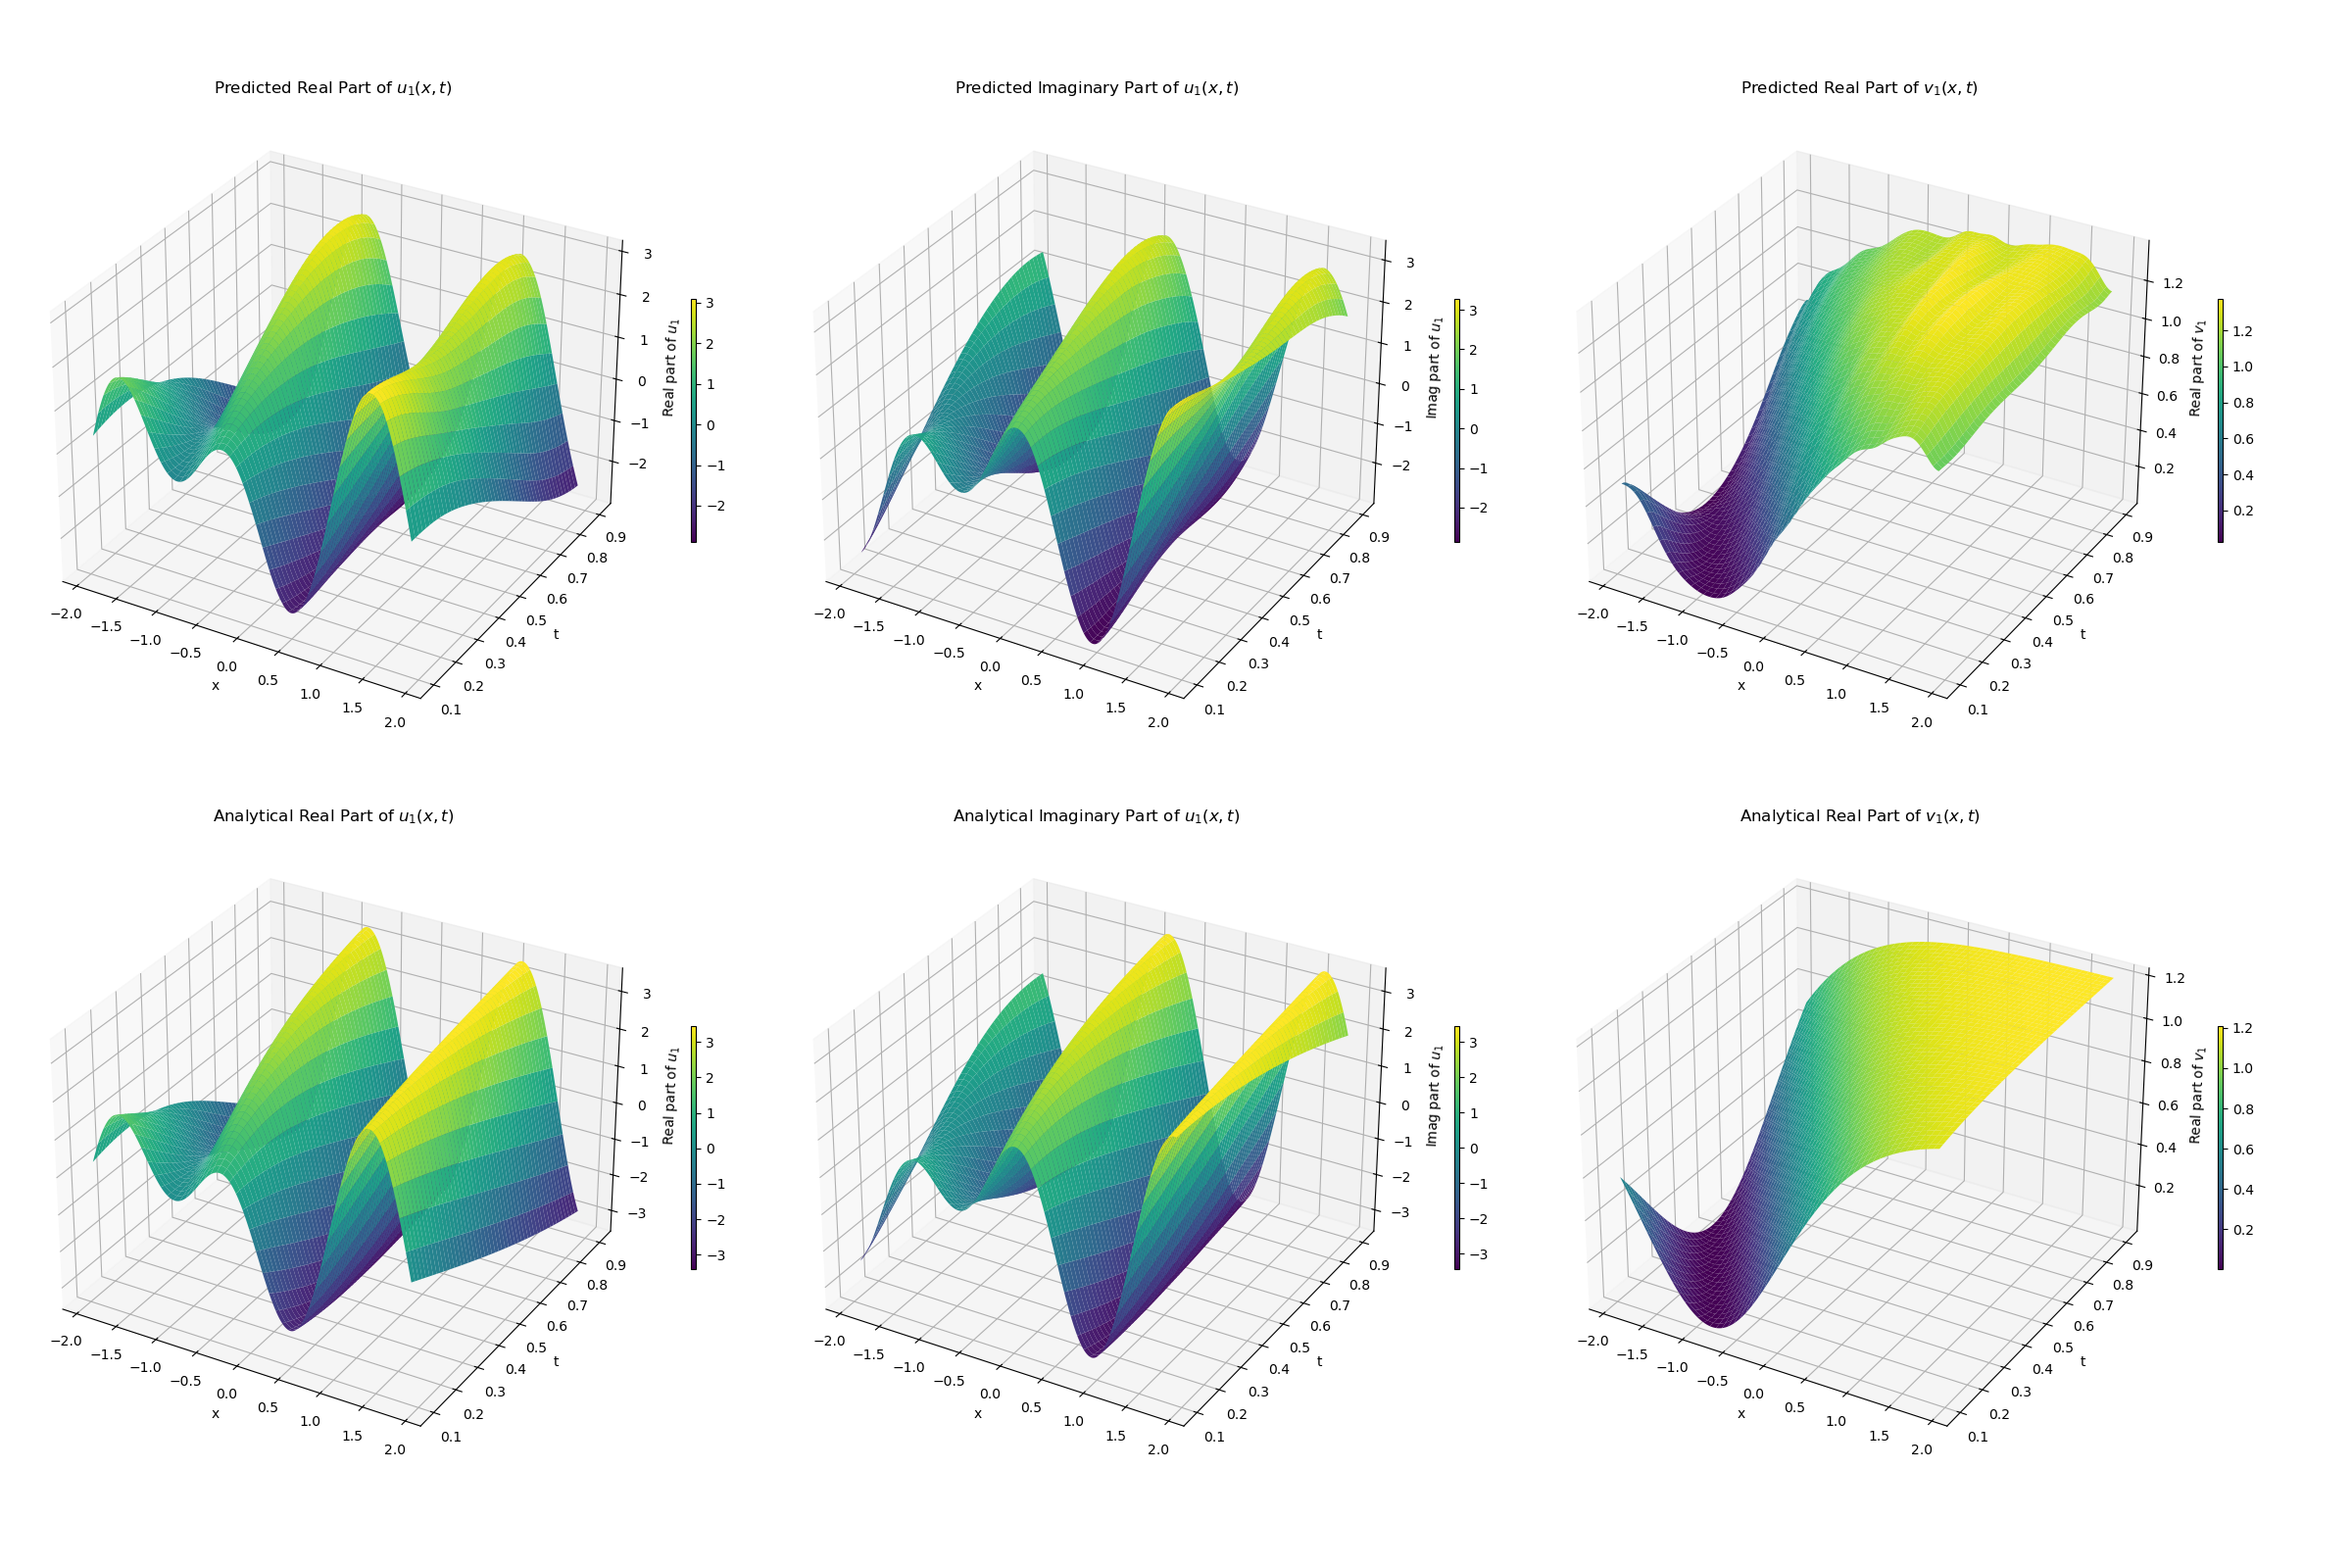
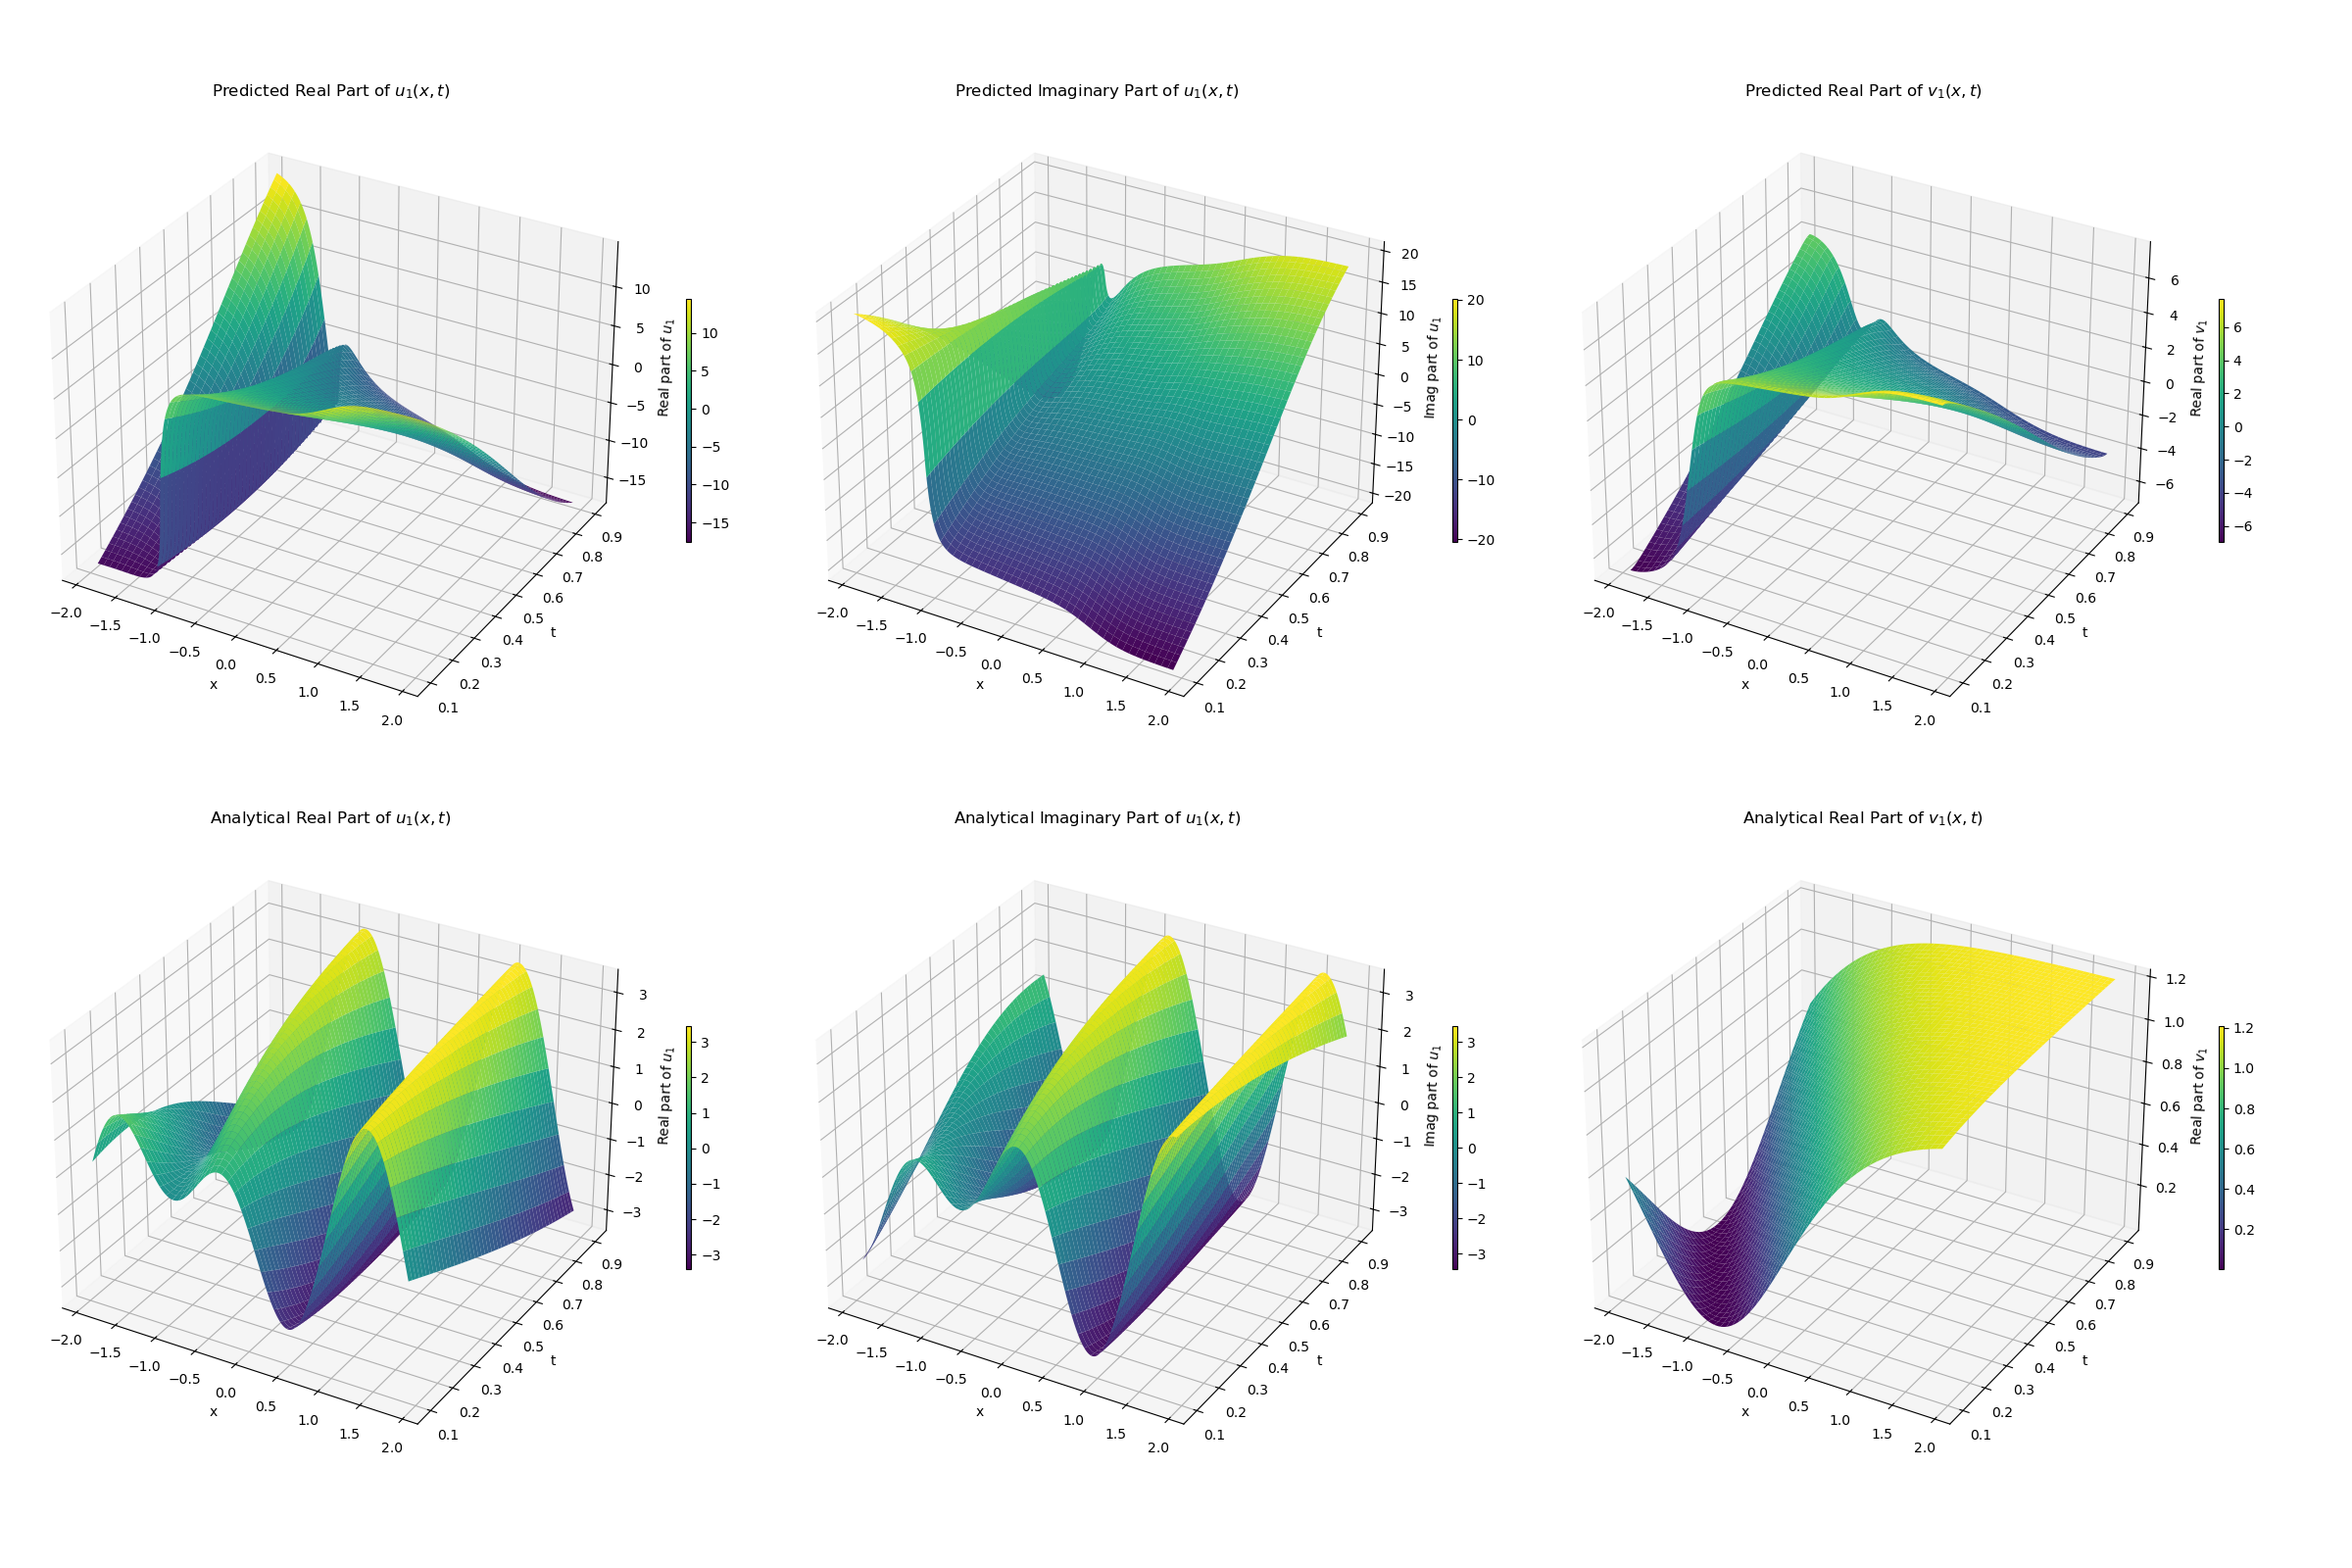
coupled higgs equation initial condition new

diff --git a/test/coupled_higgs_init.py b/test/coupled_higgs_init.py
@@ -1,0 +1,294 @@
+import torch
+import torch.nn as nn
+from torch.optim import AdamW, LBFGS
+from torch.autograd import Variable
+from tqdm import tqdm
+import numpy as np
+import os
+import pandas as pd
+from itertools import cycle
+import matplotlib.pyplot as plt
+from mpl_toolkits.mplot3d import Axes3D
+from scipy.ndimage import gaussian_filter
+import os
+import warnings
+
+warnings.filterwarnings('ignore', category=UserWarning)
+warnings.filterwarnings('ignore', category=FutureWarning)
+
+
+def fourier_features(x, B):
+    x_transformed = torch.matmul(x, B)
+    return torch.cat([torch.sin(x_transformed), torch.cos(x_transformed) ], dim=-1)
+
+def init_fixed_frequency_matrix(size, scale=1.0):
+    num_elements = size[0] * size[1]
+    lin_space = torch.linspace(-scale, scale, steps=num_elements)
+    B = lin_space.view(size).float()
+    return B
+
+def fourier_features(x, B):
+    x_transformed = torch.matmul(x, B)
+    return torch.cat([torch.sin(x_transformed), torch.cos(x_transformed)], dim=-1)
+
+def init_fixed_frequency_matrix(size, scale=1.0):
+    num_elements = size[0] * size[1]
+    lin_space = torch.linspace(-scale, scale, steps=num_elements)
+    B = lin_space.view(size).float()
+    return B
+
+class FourierFeatureNN(nn.Module):
+    def __init__(self, input_dim=1, shared_units=128, output_dim=3, layers_per_path=2, scale=1.0, 
+                 activation=nn.Tanh, path_neurons=None, ffn_neurons=None, device='cpu'):
+        super(FourierFeatureNN, self).__init__()
+        self.Bx = init_fixed_frequency_matrix((input_dim, shared_units // 2), scale=scale).to(device)
+        self.Bt = init_fixed_frequency_matrix((input_dim, shared_units // 2), scale=scale).to(device)
+        
+        if path_neurons is None:
+            path_neurons = [shared_units] * layers_per_path
+        if ffn_neurons is None:
+            ffn_neurons = [shared_units // 2]  # Example default
+
+        # Define separate paths for x and t after Fourier transformation
+        self.path_x = self._build_path(path_neurons, activation)
+        self.path_t = self._build_path(path_neurons, activation)
+
+        # Define the subsequent FFN after pointwise multiplication
+        ffn_layers = [nn.Linear(path_neurons[-1], ffn_neurons[0])] + [
+            layer for n in ffn_neurons[1:] for layer in (activation(), nn.Linear(ffn_neurons[ffn_neurons.index(n)-1], n))
+        ]
+        self.ffn = nn.Sequential(*ffn_layers)
+
+        # Final layer to produce output
+        self.final_layer = nn.Linear(ffn_neurons[-1], output_dim)
+
+    def _build_path(self, neurons, activation):
+        layers = []
+        for i in range(len(neurons) - 1):
+            layers.append(nn.Linear(neurons[i], neurons[i+1]))
+            layers.append(activation())
+        return nn.Sequential(*layers)
+
+    def forward(self, x, t):
+        # Apply Fourier feature transformations
+        x_fourier = fourier_features(x, self.Bx)
+        t_fourier = fourier_features(t, self.Bt)
+
+        # Pass through separate paths
+        x_path_output = self.path_x(x_fourier)
+        t_path_output = self.path_t(t_fourier)
+
+        # Pointwise multiplication of the separate path outputs
+        combined_features = x_path_output * t_path_output
+
+        # Pass through the fully connected network
+        ffn_output = self.ffn(combined_features)
+
+        # Final layer to produce output
+        final_output = self.final_layer(ffn_output)
+        output_1, output_2, output_3 = final_output.split(1, dim=-1)
+        
+        return output_1, output_2, output_3
+
+def grad(x, t):
+    return torch.autograd.grad(x, t, grad_outputs=torch.ones_like(x), create_graph=True)[0]
+
+def laplacian(field, x, t):
+    field_x = grad(field, x)
+    field_xx = grad(field_x, x)
+    field_t = grad(field, t)
+    field_tt = grad(field_t, t)
+    return field_xx, field_tt
+
+# Define the ODE system for the Coupled Higgs field equations
+def coupled_higgs(u_real, u_imag, v, x, t):
+    u_r_xx, u_r_tt = laplacian(u_real, x, t)
+    u_i_xx, u_i_tt = laplacian(u_imag, x, t)
+    v_xx, v_tt = laplacian(v, x, t)
+
+    u_abs = torch.square(u_real) + torch.square(u_imag)
+    u_abs_xx, u_abs_tt = laplacian(u_abs, x, t)
+
+    # Calculate the field equations
+    du_r = u_r_tt - u_r_xx + u_abs * u_real - 2 * u_real * v
+    du_i = u_i_tt - u_i_xx + u_abs * u_imag - 2 * u_imag * v
+    dv = v_tt + v_xx - u_abs_xx
+    
+    return du_r, du_i, dv
+
+def real_u1(x, t, k, omega, r):
+    complex_exp = torch.exp(1j * r * (omega * x + t))
+    tanh_val = torch.tanh((r * (k + x + omega * t)) / torch.sqrt(torch.tensor(2.0)))
+    result = torch.real(1j * r * complex_exp * torch.sqrt(torch.tensor(1) + omega**2) * tanh_val)
+    return result
+
+def imag_u1(x, t, k, omega, r):
+    complex_exp = torch.exp(1j * r * (omega * x + t))
+    tanh_val = torch.tanh((r * (k + x + omega * t)) / torch.sqrt(torch.tensor(2.0)))
+    result = torch.imag(1j * r * complex_exp * torch.sqrt(torch.tensor(1) + omega**2) * tanh_val)
+    return result
+
+def real_v1(x, t, k, omega, r):
+    result = (r * torch.tanh((r * (k + x + omega * t)) / torch.sqrt(torch.tensor(2.0))))**2
+    return result
+
+def compute_physics_loss(model, x, t, u_r0, u_i0, v0, y1, device, mse_cost_function, k, omega, r):
+    x.requires_grad = True
+    t.requires_grad = True
+    u_r0.requires_grad = True 
+    u_i0.requires_grad = True
+    v0.requires_grad = True 
+    y1.requires_grad = True 
+
+    pred_u_r, pred_u_i, pred_v = model(x, t)
+    u_r = u_r0 + y1*pred_u_r 
+    u_i = u_i0 + y1*pred_u_i
+    v = v0 + y1*pred_v
+    
+    du_eq_r, du_eq_i, dv_eq = coupled_higgs(u_r, u_i, v, x, t)
+    
+    # Define target tensors of zeros with the same shape as the predictions
+    zeros_r = torch.zeros_like(du_eq_r, device=device)
+    zeros_i = torch.zeros_like(du_eq_i, device=device)
+    zeros_v = torch.zeros_like(dv_eq, device=device)
+    
+    # Compute the MSE loss against zeros for each differential equation residual
+    loss_r = mse_cost_function(du_eq_r, zeros_r)
+    loss_i = mse_cost_function(du_eq_i, zeros_i)
+    loss_v = mse_cost_function(dv_eq, zeros_v)
+    
+    # Return the scalar loss values for real part, imaginary part, and v
+    return loss_r, loss_i, loss_v
+
+def cyclic_iterator(items):
+    return cycle(items)
+
+def plot_predictions(epoch, model, device, k, omega, r, image_save_path):
+    model.eval()  # Set the model to evaluation mode
+    x = torch.linspace(0, 1, 300)
+    t = torch.linspace(0, 1, 300)
+    X, T = torch.meshgrid(x, t)  # Create a 2D grid of x and t
+    X_flat = X.flatten().unsqueeze(-1).to(device)
+    T_flat = T.flatten().unsqueeze(-1).to(device)
+    x0 = torch.zeros_like(X_flat).to(device)
+    x1 = torch.ones_like(X_flat).to(device)
+    
+    
+    with torch.no_grad():
+        pred_u_r, pred_u_i, pred_v = model(X_flat, T_flat) 
+    
+    pred_u_r = (1-X_flat)*real_u1(x0, T_flat, k, omega, r) + X_flat*real_u1(x1, T_flat, k, omega, r) + X_flat*(1-X_flat)*pred_u_r 
+    pred_u_i = (1-X_flat)*imag_u1(x0, T_flat, k, omega, r) + (1-X_flat)*imag_u1(x1, T_flat, k, omega, r) + X_flat*(1-X_flat)*pred_u_i
+    pred_v = (1-X_flat)*real_v1(x0, T_flat, k, omega, r) + (1-X_flat)*real_v1(x1, T_flat, k, omega, r) + X_flat*(1-X_flat)*pred_v
+  
+    pred_u_r = pred_u_r.cpu().reshape(X.shape).numpy()
+    pred_u_i = pred_u_i.cpu().reshape(X.shape).numpy()
+    pred_v = pred_v.cpu().reshape(X.shape).numpy()
+
+    real_u1_analytical = real_u1(X_flat, T_flat, k, omega, r).cpu().reshape(X.shape).numpy()
+    imag_u1_analytical = imag_u1(X_flat, T_flat, k, omega, r).cpu().reshape(X.shape).numpy()
+    real_v1_analytical = real_v1(X_flat, T_flat, k, omega, r).cpu().reshape(X.shape).numpy()
+
+    sigma = 10
+    pred_v_smooth = gaussian_filter(pred_v, sigma=sigma)
+    shrink = 0.3
+    cmap = 'viridis'
+    aspect = 50
+    # Data for plotting
+    data_to_plot = [
+        (pred_u_r, 'Predicted Real Part of $u_1(x, t)$', 'Real part of $u_1$'),
+        (pred_u_i, 'Predicted Imaginary Part of $u_1(x, t)$', 'Imag part of $u_1$'),
+        (pred_v_smooth, 'Predicted Real Part of $v_1(x, t)$', 'Real part of $v_1$'),
+        (real_u1_analytical, 'Analytical Real Part of $u_1(x, t)$', 'Real part of $u_1$'),
+        (imag_u1_analytical, 'Analytical Imaginary Part of $u_1(x, t)$', 'Imag part of $u_1$'),
+        (real_v1_analytical, 'Analytical Real Part of $v_1(x, t)$', 'Real part of $v_1$')
+    ]
+    fig = plt.figure(figsize=(24, 16))
+    
+    for idx, (data, title, zlabel) in enumerate(data_to_plot, start=1):
+        ax = fig.add_subplot(2, 3, idx, projection='3d')
+        surf = ax.plot_surface(X.numpy(), T.numpy(), data, cmap=cmap)
+        fig.colorbar(surf, ax=ax, shrink=shrink, aspect=aspect)
+        ax.set_title(title)
+        ax.set_xlabel('x')
+        ax.set_ylabel('t')
+        ax.set_zlabel(zlabel)
+
+    plt.tight_layout()
+    plt.savefig(f'{image_save_path}/chiggs_model_comparison_epoch_{epoch}.png',dpi = 100)
+    plt.close(fig)
+      # Close the figure to free memory
+
+def seq2seq_training(model, model_save_path, image_save_path, mse_cost_function, device, num_epochs, lr, num_samples, r, k, omega, gamma):
+    optimizer = AdamW(model.parameters(), lr=lr, betas=(0.9, 0.999), eps=1e-08, weight_decay=1e-5)
+    items = [-2, -1, 0, 1]
+    iterator = cyclic_iterator(items)
+    print(' Starting Seq2Seq Training')
+    factor = 0
+    x = torch.linspace(0,1,num_samples).unsqueeze(-1).to(device)
+    t = torch.linspace(0,1,num_samples).unsqueeze(-1).to(device)
+    x0 = torch.zeros_like(x).to(device)
+    x1 = torch.ones_like(x).to(device)
+    y = 1-x 
+    y1 = x*(1-x)
+    u_r0 = y*real_u1(x0, t, k, omega, r) + x*real_u1(x1, t, k, omega, r)
+    u_i0 = y*imag_u1(x0, t, k, omega, r) + x*imag_u1(x1, t, k, omega, r)
+    v0 = y*real_v1(x0,t, k, omega, r) + x*real_v1(x1, t, k, omega, r)     
+    
+    for epoch in tqdm(range(num_epochs),
+                  desc='Progress:',  
+                  leave=False,  
+                  ncols=75,
+                  mininterval=0.1,
+                  bar_format='{l_bar} {bar} | {remaining}',  # Only show the bar without any counters
+                  colour='blue'): 
+        
+        model.train()
+        optimizer.zero_grad()
+
+        loss_ur, loss_ui, loss_v = compute_physics_loss(model, x, t, u_r0, u_i0, v0, y1, device, mse_cost_function, k, omega, r)
+        total_loss = loss_ur + loss_ui + loss_v
+        total_loss.backward()
+        optimizer.step()
+
+        if epoch % 1000 == 0:
+            print(f' Epoch {epoch}, Factor {factor}, Loss U (real): {loss_ur.item()}, Loss U (imag): {loss_ui.item()}, Loss V: {loss_v.item()}')
+            plot_predictions(epoch, model, device, k, omega, r, image_save_path)
+            
+    model_filename = os.path.join(model_save_path, f'C_HIGGS_first_training.pth')
+    torch.save(model.state_dict(), model_filename)
+    print('COMPLETED Seq2Seq Training')
+
+
+def main():
+    # Check if CUDA is available and set the default device
+    device = torch.device('cuda' if torch.cuda.is_available() else 'cpu')
+
+    if torch.cuda.is_available():
+        print("CUDA is available! Training on GPU.")
+    else:
+        print("CUDA is not available. Training on CPU.")
+
+    model = FourierFeatureNN(input_dim=1, shared_units=128, output_dim=3, layers_per_path=2, scale=1.0, 
+                         activation=nn.Tanh, path_neurons=[128, 128, 128, 128], ffn_neurons=[128, 128, 128], device=device).to(device)
+    print(model)
+    num_epochs_lbfgs = 50  # Number of training epochs
+    num_samples_lbfgs = 1000*5 # Number of samples for training
+    num_epochs_sq = 12000
+    num_samples_sq = 3000
+    lr = 1e-4
+    r = 1.1
+    omega = 3 
+    k = 0.5
+    gamma = 1e-3
+    model_save_path = 'model_weights_test' 
+    mse_cost_function = torch.nn.MSELoss()
+    os.makedirs(model_save_path, exist_ok=True)
+    image_save_path = 'results_test'
+    os.makedirs(image_save_path, exist_ok=True)
+    losses = []
+    seq2seq_training(model, model_save_path, image_save_path, mse_cost_function, device, num_epochs_sq, lr, num_samples_sq, r, k, omega, gamma)
+    #LBFGS_training(model, model_save_path, mse_cost_function, device, num_epochs_lbfgs, lr, num_samples_lbfgs, r, k, omega, gamma)
+if __name__ == '__main__':
+    main()
+
